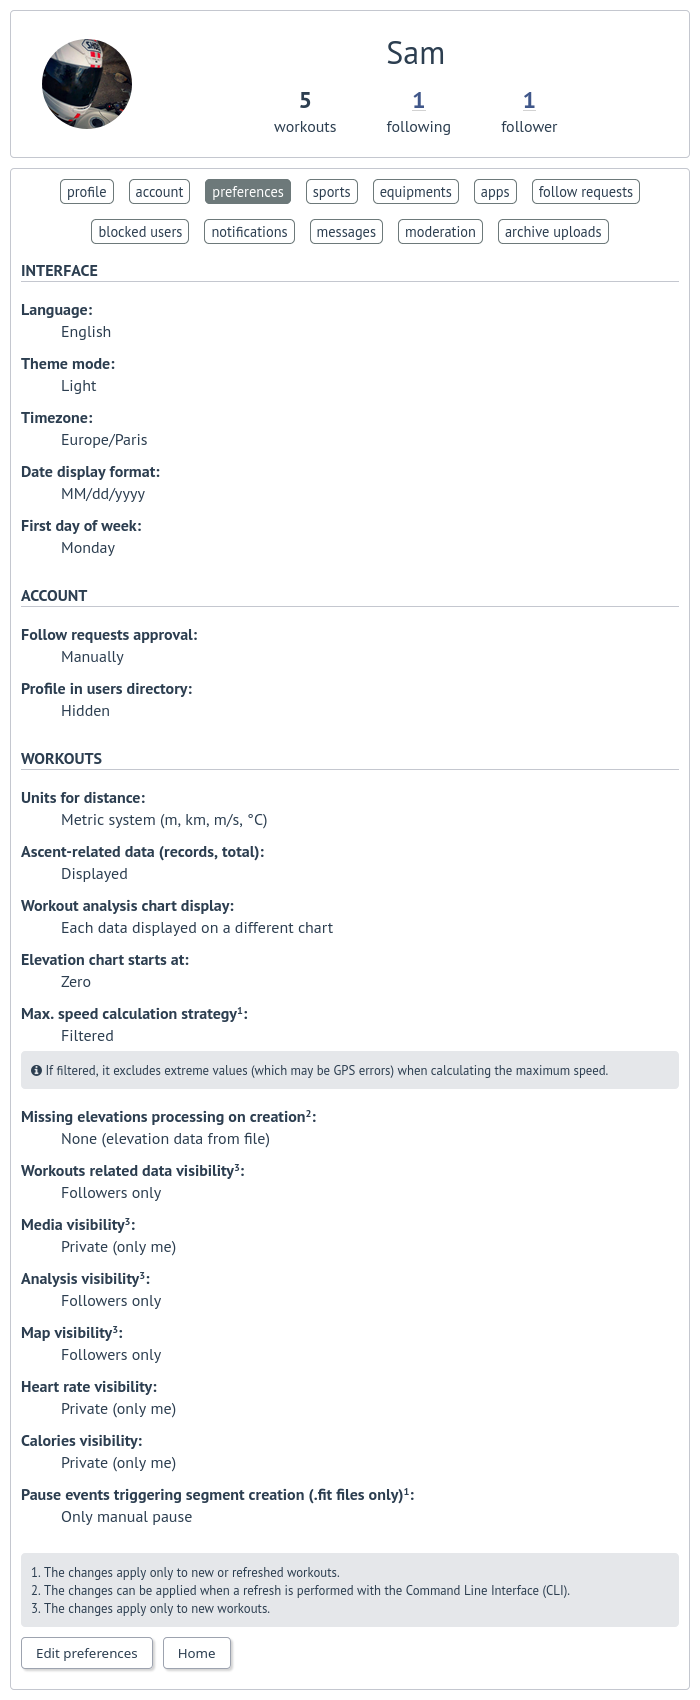
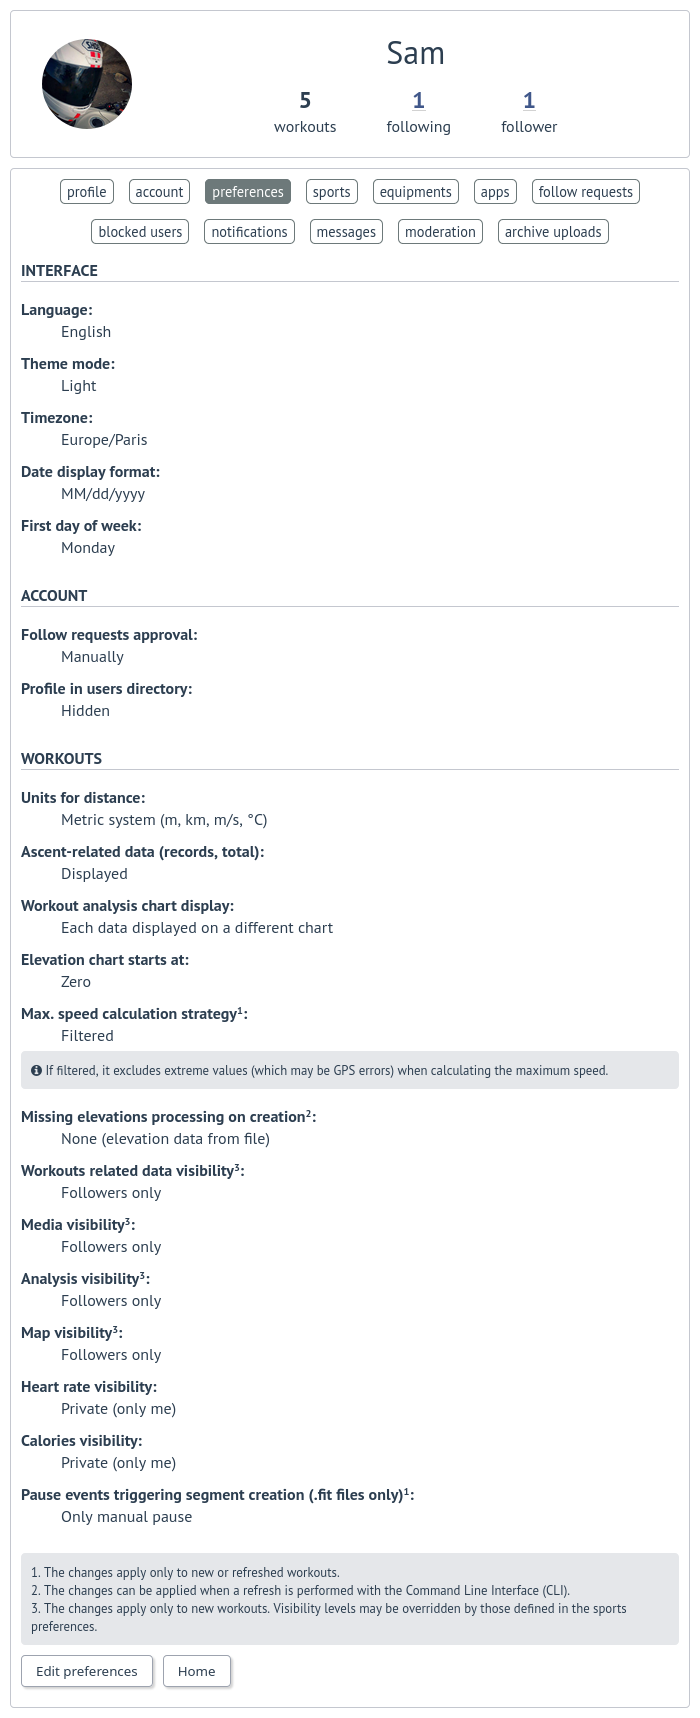
update documentation

diff --git a/docsrc/source/features/account_and_preferences.rst b/docsrc/source/features/account_and_preferences.rst
@@ -77,6 +77,9 @@ For workouts, it is possible to choose:
 
 - default visibility for workout data, media (photos), analysis, map and heart rate.
 
+  .. note::
+    | These visibility settings can be customized for each sport in the sports preferences.
+
 The type of events that generate segment when uploading .fit files can also be set:
 
 - all pause events,
@@ -90,6 +93,7 @@ Sports preferences
 .. versionadded:: 0.5.0
 .. versionchanged:: 0.8.0 added default equipment
 .. versionchanged:: 1.1.0 added pace/speed display
+.. versionchanged:: 1.4.0 added visibility levels
 
 .. figure:: ../_images/sport-preference.png
    :alt: Sport Preferences on FitTrackee
@@ -105,6 +109,7 @@ The following sport preferences can be set:
   - pace
   - speed
   - pace and speed
+- set default visibility for workout data, media (photos), analysis and map.
 
   .. note::
     | If a sport is disabled by an administrator, it can not be enabled by a user. In this case, it will only appear in preferences if the user has workouts and only sport color can be changed.

diff --git a/docsrc/source/features/workout.rst b/docsrc/source/features/workout.rst
@@ -374,7 +374,7 @@ Visibility level can be set separately for workout data, analysis and map:
 
 In addition, the visibility level can be set for all workouts for heart rate (average and max values and values displayed in chart) and total calories (value displayed in the workout detail).
 
-Default visibility can be set in the `user preferences <account_and_preferences.html#preferences>`__.
+Default visibility can be set in the `user preferences <account_and_preferences.html#preferences>`__ and `sports preferences <account_and_preferences.html#sports-preferences>`__.
 
 .. note::
   | A workout with a file whose visibility for map and analysis data does not allow them to be viewed appears as a workout without a file.
